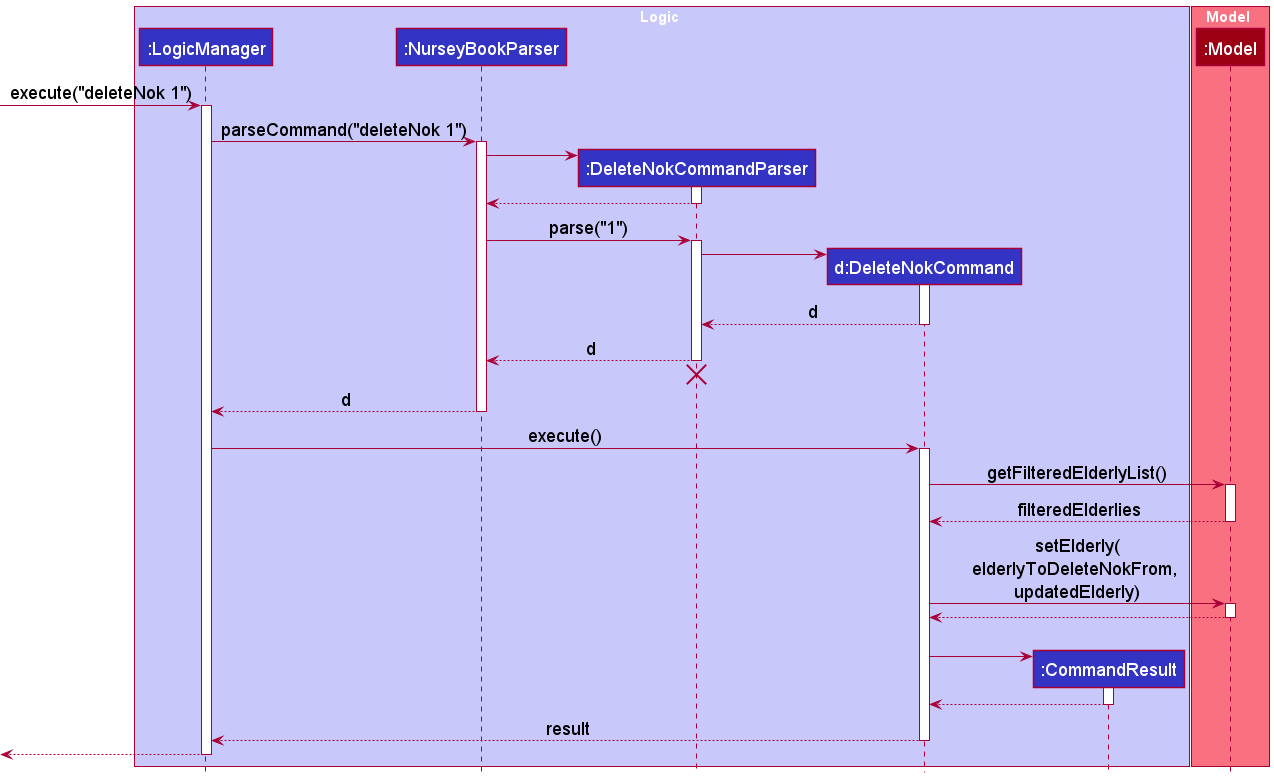
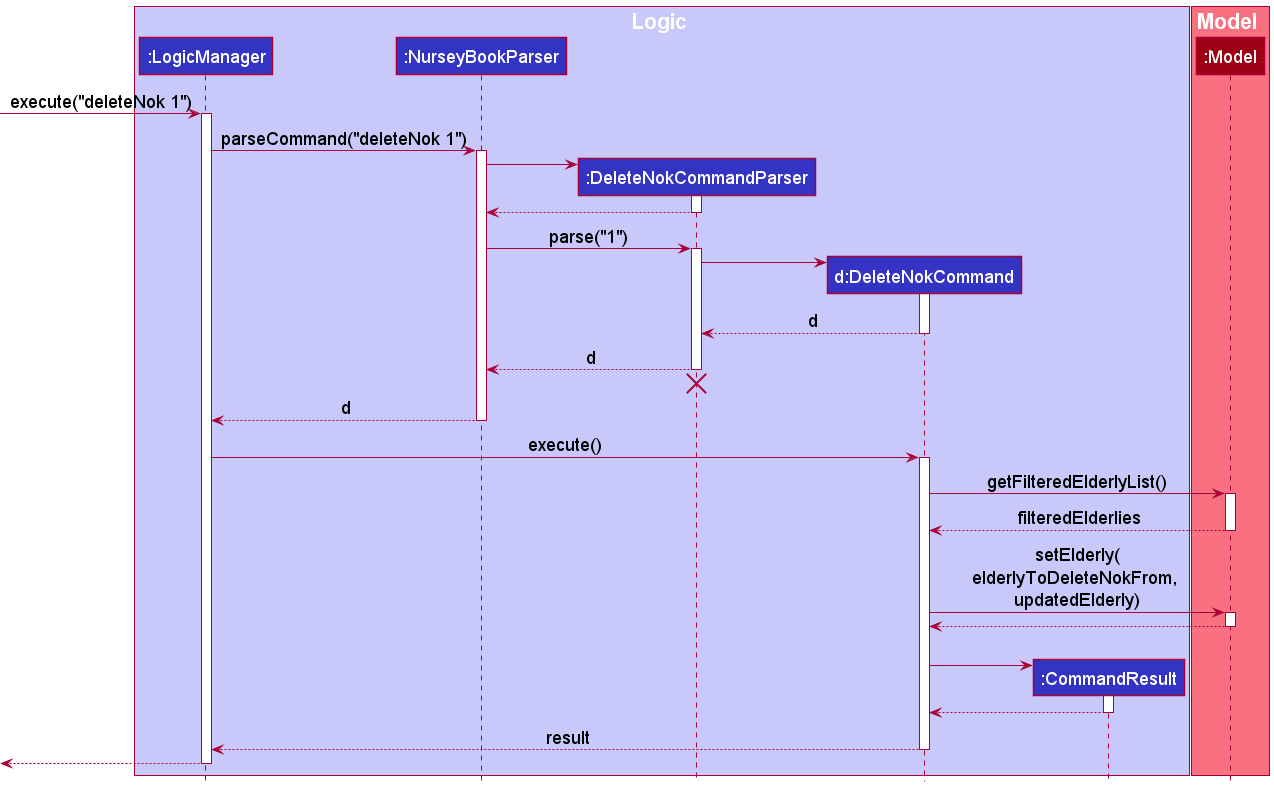
Update BoxFontSize

diff --git a/docs/DeveloperGuide.md b/docs/DeveloperGuide.md
@@ -171,10 +171,13 @@ Given below is the class diagram of the FilterCommand and the ElderlyHasTagPredi
 The following sequence diagrams show how the filter command works:
 
 This diagram shows how the FilterCommand object is created:
+
 ![FilterSequenceDiagram](images/FilterSequenceDiagram.png)
 
 This diagram shows how the FilterCommand is executed:
+
 ![FilterSequenceDiagramPart2](images/FilterSequenceDiagramPart2.png)
+
 <div markdown="span" class="alert alert-info">:information_source: **Note:** The lifeline for `FilterCommand` and `ElderlyHasTagPredicate` should end at the destroy marker (X) but due to a limitation of PlantUML, the lifeline reaches the end of diagram.
 
 </div>
@@ -359,7 +362,7 @@ Reason: It no longer makes sense to redo the `addTag 1 t/diabetes` command. This
 
 The following activity diagram summarizes what happens when a user executes a new command:
 
-<img src="images/CommitActivityDiagram.png" width="250" />
+<img src="images/CommitActivityDiagram.png" width="300" />
 
 #### Design considerations:
 
